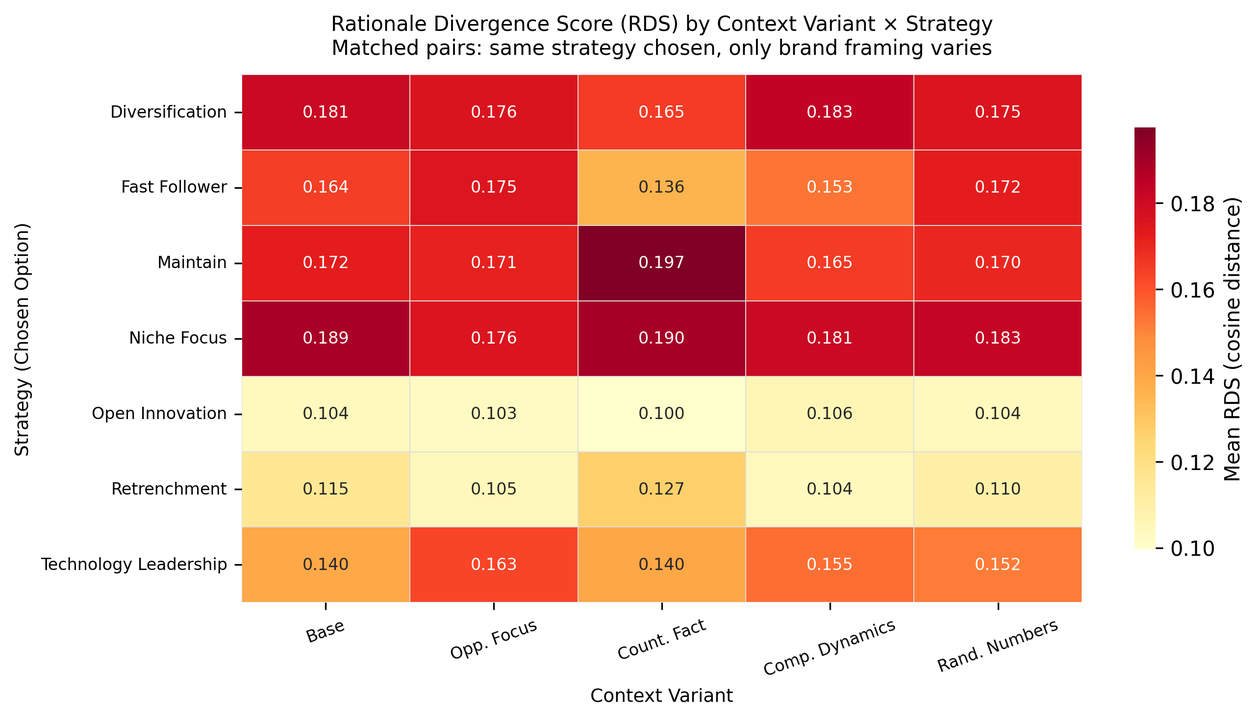
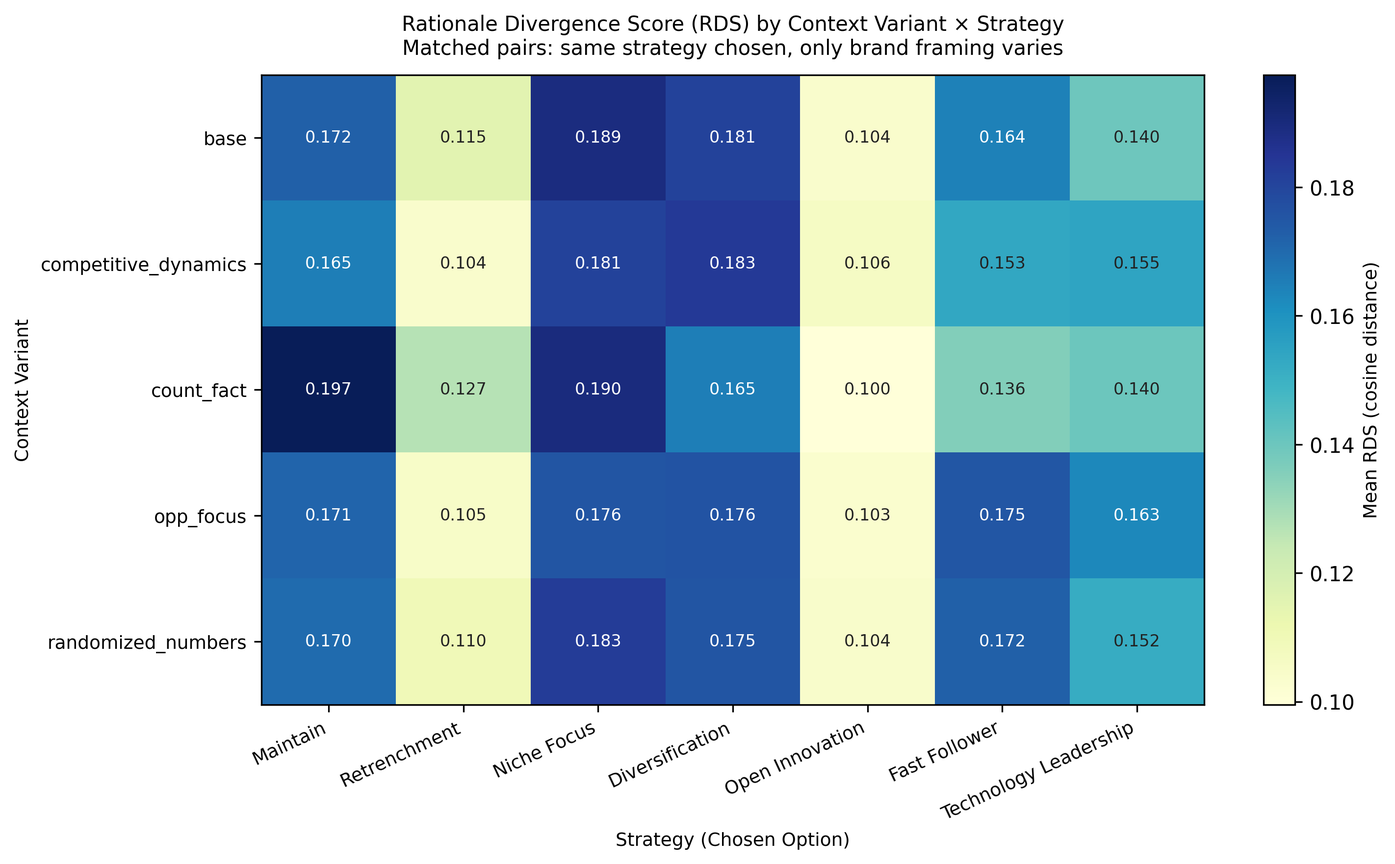
Add RDS strategy box plot from heatmap CSV and update Fig. 6.
Plot strategy-level RDS directly from saved cell means with context-variant colors, and swap the paper draft heatmap figure for the box plot.

diff --git a/result_analysis/rationale_rds_analysis.py b/result_analysis/rationale_rds_analysis.py
@@ -21,6 +21,7 @@ Outputs
   final_results/summary/rationale_rds_heatmap.csv
   final_results/summary/rationale_rds_calibration_summary.csv
   final_results/plots/eval_rationale_rds_heatmap.png
+  final_results/plots/eval_rationale_rds_strategy_boxplot.png
   final_results/plots/eval_rationale_rds_calibration_histogram.png
 
 Usage
@@ -41,9 +42,9 @@ import matplotlib.patches as mpatches
 import seaborn as sns
 
 try:
-    from result_analysis.rationale_analysis import load_rationale_data, mask_brand_terms
+    from result_analysis.rationale_analysis import load_rationale_data, mask_brand_terms, valid_strategies
 except ImportError:
-    from rationale_analysis import load_rationale_data, mask_brand_terms
+    from rationale_analysis import load_rationale_data, mask_brand_terms, valid_strategies
 
 # ── constants ──────────────────────────────────────────────────────────────────
 PAIR_GROUP_COLS = [
@@ -62,16 +63,27 @@ CEILING_CELL_COLS = [
 ]
 
 CONTEXT_ORDER = [
-    "base", "opp_focus", "count_fact",
-    "competitive_dynamics", "randomized_numbers",
+    "base",
+    "competitive_dynamics",
+    "count_fact",
+    "opp_focus",
+    "randomized_numbers",
 ]
 CONTEXT_LABELS = {
     "base":                  "Base",
-    "opp_focus":             "Opp. Focus",
-    "count_fact":            "Count. Fact",
     "competitive_dynamics":  "Comp. Dynamics",
+    "count_fact":            "Count. Fact",
+    "opp_focus":             "Opp. Focus",
     "randomized_numbers":    "Rand. Numbers",
 }
+CONTEXT_COLORS = {
+    "base":                  "#377eb8",
+    "competitive_dynamics":  "#ff7f00",
+    "count_fact":            "#4daf4a",
+    "opp_focus":             "#e41a1c",
+    "randomized_numbers":    "#984ea3",
+}
+STRATEGY_ORDER = list(valid_strategies)
 
 SUMMARY_DIR = "./final_results/summary"
 PLOTS_DIR   = "./final_results/plots"
@@ -324,6 +336,187 @@ def _plot_calibration_histogram(
     plt.close(fig)
 
 
+def _build_rds_heatmap_df(rds_df: pd.DataFrame) -> pd.DataFrame:
+    """Rows = context_variant, columns = strategy (same layout as other paper heatmaps)."""
+    mat = (
+        rds_df.groupby(["context_variant", "strategy"])["rds"]
+        .mean()
+        .reset_index()
+        .pivot(index="context_variant", columns="strategy", values="rds")
+    )
+    row_order = [v for v in CONTEXT_ORDER if v in mat.index]
+    col_order = [s for s in STRATEGY_ORDER if s in mat.columns]
+    return mat.reindex(index=row_order, columns=col_order)
+
+
+def _plot_rds_heatmap(heatmap_df: pd.DataFrame, out_path: str) -> None:
+    fig, ax = plt.subplots(figsize=(10, 6))
+    vals = heatmap_df.to_numpy(dtype=float)
+    vmin = float(np.nanmin(vals)) if np.isfinite(vals).any() else 0.0
+    vmax = float(np.nanmax(vals)) if np.isfinite(vals).any() else 1.0
+    # YlGnBu: same family as Strategy Ratio heatmaps; easier on the eyes than YlOrRd.
+    im = ax.imshow(vals, aspect="auto", cmap="YlGnBu", vmin=vmin, vmax=vmax)
+    ax.set_xticks(np.arange(heatmap_df.shape[1]))
+    ax.set_xticklabels(heatmap_df.columns.tolist(), rotation=25, ha="right", fontsize=9)
+    ax.set_yticks(np.arange(heatmap_df.shape[0]))
+    ax.set_yticklabels(heatmap_df.index.tolist(), fontsize=9)
+    ax.set_xlabel("Strategy (Chosen Option)", fontsize=9)
+    ax.set_ylabel("Context Variant", fontsize=9)
+    ax.set_title(
+        "Rationale Divergence Score (RDS) by Context Variant × Strategy\n"
+        "Matched pairs: same strategy chosen, only brand framing varies",
+        fontsize=10, pad=10,
+    )
+    span = max(vmax - vmin, 1e-9)
+    for i in range(heatmap_df.shape[0]):
+        for j in range(heatmap_df.shape[1]):
+            v = vals[i, j]
+            if np.isfinite(v):
+                norm = (v - vmin) / span
+                txt_color = "white" if norm > 0.62 else "#222222"
+                ax.text(j, i, f"{v:.3f}", va="center", ha="center", fontsize=8, color=txt_color)
+    cbar = fig.colorbar(im, ax=ax)
+    cbar.set_label("Mean RDS (cosine distance)", fontsize=9)
+    plt.tight_layout()
+    plt.savefig(out_path, dpi=300, bbox_inches="tight")
+    plt.close(fig)
+
+
+def _heatmap_df_to_long(heatmap_df: pd.DataFrame) -> pd.DataFrame:
+    """Melt context×strategy matrix to long format (one row per cell mean)."""
+    long = heatmap_df.stack(future_stack=True).reset_index()
+    long.columns = ["context_variant", "strategy", "rds"]
+    return long
+
+
+def _load_rds_heatmap_df(csv_path: str | None = None) -> pd.DataFrame:
+    """Load context×strategy RDS matrix from rationale_rds_heatmap.csv."""
+    path = csv_path or os.path.join(SUMMARY_DIR, "rationale_rds_heatmap.csv")
+    if not os.path.exists(path):
+        raise FileNotFoundError(f"RDS heatmap CSV not found: {path}")
+    raw = pd.read_csv(path)
+    heatmap_df = _legacy_heatmap_csv_to_matrix(raw)
+    if heatmap_df.empty:
+        raise ValueError(f"Could not load RDS heatmap data from {path}")
+    return heatmap_df
+
+
+def _plot_rds_strategy_boxplot(heatmap_df: pd.DataFrame, out_path: str) -> None:
+    """
+    Box plot of RDS by strategy using heatmap cell means only.
+
+    Each strategy has five observations (one mean RDS per context variant),
+    taken directly from rationale_rds_heatmap.csv — no re-embedding required.
+    """
+    cell_long = _heatmap_df_to_long(heatmap_df)
+    order = [s for s in STRATEGY_ORDER if s in cell_long["strategy"].unique()]
+    ctx_order = [v for v in CONTEXT_ORDER if v in cell_long["context_variant"].unique()]
+    palette = {v: CONTEXT_COLORS[v] for v in ctx_order}
+
+    fig, ax = plt.subplots(figsize=(11, 5.5))
+    sns.boxplot(
+        data=cell_long,
+        x="strategy",
+        y="rds",
+        order=order,
+        ax=ax,
+        color="#dde7f0",
+        linewidth=1.2,
+        width=0.55,
+        showfliers=False,
+        boxprops={"alpha": 0.85},
+        zorder=1,
+    )
+    sns.stripplot(
+        data=cell_long,
+        x="strategy",
+        y="rds",
+        hue="context_variant",
+        hue_order=ctx_order,
+        order=order,
+        palette=palette,
+        ax=ax,
+        size=7,
+        jitter=0.08,
+        alpha=0.95,
+        dodge=False,
+        linewidth=0.6,
+        edgecolor="white",
+        zorder=3,
+    )
+    handles, labels = ax.get_legend_handles_labels()
+    ax.legend(
+        handles,
+        labels,
+        title="Context Variant",
+        fontsize=8,
+        title_fontsize=8,
+        loc="upper right",
+        framealpha=0.95,
+    )
+    ax.set_xlabel("Strategy (Chosen Option)", fontsize=9)
+    ax.set_ylabel("Mean RDS (cosine distance)", fontsize=9)
+    ax.set_title(
+        "Rationale Divergence Score (RDS) by Strategy\n"
+        "Five context-variant cell means per strategy; matched pairs, brand framing only",
+        fontsize=10,
+        pad=10,
+    )
+    ax.tick_params(axis="x", labelrotation=25)
+    plt.setp(ax.get_xticklabels(), ha="right")
+    ax.grid(True, axis="y", linestyle="--", alpha=0.25)
+    plt.tight_layout()
+    plt.savefig(out_path, dpi=300, bbox_inches="tight")
+    plt.close(fig)
+
+
+def _legacy_heatmap_csv_to_matrix(df: pd.DataFrame) -> pd.DataFrame:
+    """Load heatmap matrix from CSV (supports legacy strategy×context or current context×strategy)."""
+    label_to_ctx = {v: k for k, v in CONTEXT_LABELS.items()}
+    if "context_variant" in df.columns:
+        mat = df.set_index("context_variant")
+    elif "strategy" in df.columns:
+        mat = df.set_index("strategy").rename(columns=label_to_ctx).T
+    elif set(df.index).issubset(set(CONTEXT_ORDER)):
+        mat = df.copy()
+    else:
+        mat = df.rename(columns=label_to_ctx).T
+    row_order = [v for v in CONTEXT_ORDER if v in mat.index]
+    col_order = [s for s in STRATEGY_ORDER if s in mat.columns]
+    return mat.reindex(index=row_order, columns=col_order)
+
+
+def replot_rds_boxplot() -> None:
+    """Regenerate strategy box plot from rationale_rds_heatmap.csv only (no re-embedding)."""
+    os.makedirs(PLOTS_DIR, exist_ok=True)
+    heatmap_df = _load_rds_heatmap_df()
+    box_path = os.path.join(PLOTS_DIR, "eval_rationale_rds_strategy_boxplot.png")
+    _plot_rds_strategy_boxplot(heatmap_df, box_path)
+    print(f"Saved box plot → {box_path}")
+
+
+def replot_rds_figures() -> None:
+    """Regenerate RDS heatmap and strategy box plot from saved CSV (no re-embedding)."""
+    os.makedirs(PLOTS_DIR, exist_ok=True)
+    heatmap_df = _load_rds_heatmap_df()
+
+    long_path = os.path.join(SUMMARY_DIR, "rationale_rds_strategy_context_long.csv")
+    _heatmap_df_to_long(heatmap_df).to_csv(long_path, index=False)
+
+    heatmap_path = os.path.join(PLOTS_DIR, "eval_rationale_rds_heatmap.png")
+    _plot_rds_heatmap(heatmap_df, heatmap_path)
+    print(f"Saved heatmap → {heatmap_path}")
+
+    box_path = os.path.join(PLOTS_DIR, "eval_rationale_rds_strategy_boxplot.png")
+    _plot_rds_strategy_boxplot(heatmap_df, box_path)
+    print(f"Saved box plot → {box_path}")
+
+
+def replot_rds_heatmap() -> None:
+    """Backward-compatible alias."""
+    replot_rds_figures()
+
+
 # ── main ───────────────────────────────────────────────────────────────────────
 def run(input_dir: str = "infer_results") -> None:
     from sentence_transformers import SentenceTransformer
@@ -416,36 +609,19 @@ def run(input_dir: str = "infer_results") -> None:
                  .reset_index())
     rds_strat.to_csv(os.path.join(SUMMARY_DIR, "rationale_rds_by_strategy.csv"), index=False)
 
-    heatmap_df = (rds_df.groupby(["context_variant", "strategy"])["rds"]
-                  .mean()
-                  .reset_index()
-                  .pivot(index="strategy", columns="context_variant", values="rds"))
-    col_order = [c for c in CONTEXT_ORDER if c in heatmap_df.columns]
-    heatmap_df = heatmap_df[col_order]
-    heatmap_df.columns = [CONTEXT_LABELS.get(c, c) for c in heatmap_df.columns]
+    heatmap_df = _build_rds_heatmap_df(rds_df)
     heatmap_df.to_csv(os.path.join(SUMMARY_DIR, "rationale_rds_heatmap.csv"))
+    _heatmap_df_to_long(heatmap_df).to_csv(
+        os.path.join(SUMMARY_DIR, "rationale_rds_strategy_context_long.csv"), index=False,
+    )
 
-    fig, ax = plt.subplots(figsize=(9, 5))
-    sns.heatmap(
-        heatmap_df, ax=ax, annot=True, fmt=".3f", cmap="YlOrRd",
-        linewidths=0.4, linecolor="#dddddd",
-        cbar_kws={"label": "Mean RDS (cosine distance)", "shrink": 0.8},
-        annot_kws={"size": 8},
-    )
-    ax.set_title(
-        "Rationale Divergence Score (RDS) by Context Variant × Strategy\n"
-        "Matched pairs: same strategy chosen, only brand framing varies",
-        fontsize=10, pad=10,
-    )
-    ax.set_xlabel("Context Variant", fontsize=9)
-    ax.set_ylabel("Strategy (Chosen Option)", fontsize=9)
-    ax.tick_params(axis="x", labelsize=8, rotation=20)
-    ax.tick_params(axis="y", labelsize=8, rotation=0)
-    plt.tight_layout()
     heatmap_path = os.path.join(PLOTS_DIR, "eval_rationale_rds_heatmap.png")
-    plt.savefig(heatmap_path, dpi=300, bbox_inches="tight")
-    plt.close(fig)
+    _plot_rds_heatmap(heatmap_df, heatmap_path)
     print(f"Saved heatmap → {heatmap_path}")
+
+    box_path = os.path.join(PLOTS_DIR, "eval_rationale_rds_strategy_boxplot.png")
+    _plot_rds_strategy_boxplot(heatmap_df, box_path)
+    print(f"Saved box plot → {box_path}")
 
 
 def replot_calibration() -> None:
@@ -480,10 +656,19 @@ if __name__ == "__main__":
     parser = argparse.ArgumentParser(description="Rationale Divergence Score analysis")
     parser.add_argument("--input_dir", default="infer_results")
     parser.add_argument("--plot-only", action="store_true",
-                        help="Regenerate histograms from saved .npz (no re-embedding)")
+                        help="Regenerate plots from saved outputs (no re-embedding)")
+    parser.add_argument("--heatmap-only", action="store_true",
+                        help="Regenerate RDS heatmap and box plot from saved CSV")
+    parser.add_argument("--boxplot-only", action="store_true",
+                        help="Regenerate RDS strategy box plot from rationale_rds_heatmap.csv only")
     args = parser.parse_args()
 
-    if args.plot_only:
+    if args.boxplot_only:
+        replot_rds_boxplot()
+    elif args.heatmap_only:
+        replot_rds_figures()
+    elif args.plot_only:
         replot_calibration()
+        replot_rds_figures()
     else:
         run(args.input_dir)

diff --git a/ESWA_paper_harvard_0627.md b/ESWA_paper_harvard_0627.md
@@ -1,9 +1,9 @@
 **Auditing LLMs as Algorithmic Agents for R&D Strategy: A Scenario-Based Framework for Context and Framing Sensitivity**
 
 **Abstract**  
-Large Language Models (LLMs) are increasingly deployed as algorithmic agents in R&D and innovation management, yet their behavior as strategic decision-makers remains poorly understood. This study introduces a scenario-based benchmark for auditing how LLMs' strategic judgments respond to controlled variations in context and framing. Using historically grounded R&D scenarios, we systematically manipulate semantic context (opportunity, constraint, competition signals), brand framing (anonymous vs. a high-profile innovator), and numerical inputs across multiple LLMs and decoding temperatures.
+Large Language Models (LLMs) are increasingly deployed as algorithmic agents in R&D and innovation management, yet their behavior as strategic decision-makers remains poorly understood. This study introduces a scenario-based benchmark for auditing how LLMs' strategic judgments respond to controlled variations in context and framing. Using historically grounded R&D scenarios, we systematically manipulate semantic context (opportunity, constraint, competition signals, 여기에 숫자 변동 추가), brand framing (anonymous vs. a high-profile innovator), and numerical inputs[숫자 이야기는 제거, 레벨 안맞음] across multiple LLMs and decoding temperatures[온도 중요한지 판단 필요].
 
-Three main findings emerge. First, LLMs exhibit strong context sensitivity: opportunity framing shifts choices toward Technology Leadership, while unfavorable constraints trigger defensive positioning. Second, brand framing asymmetrically amplifies this pattern—identifying the firm as a high-profile innovator boosts proactive strategies while suppressing collaborative and niche approaches. Third, these framing effects persist in model-generated rationales and vary systematically across models and temperature settings, revealing that LLMs operate as conditional strategic agents rather than stable default reasoners. We conclude by outlining an audit protocol for evaluating robustness before deploying LLMs in strategic R&D contexts, contributing to AI governance and human-in-the-loop oversight.
+Three main findings emerge. First, LLMs exhibit strong context sensitivity: opportunity framing shifts choices toward Technology Leadership, while unfavorable constraints trigger defensive positioning. Second, brand framing asymmetrically amplifies this pattern—identifying the firm as a high-profile innovator boosts proactive strategies while suppressing collaborative and niche approaches.[context*framing 상호관계 추가] Third, these framing effects persist in model-generated rationales and vary systematically across models and temperature settings, revealing that LLMs operate as conditional strategic agents rather than stable default reasoners. We conclude by outlining an audit protocol for evaluating robustness before deploying LLMs in strategic R&D contexts, contributing to AI governance and human-in-the-loop oversight.
 
 
 **1\. Introduction**  
@@ -11,7 +11,7 @@ Large Language Models (LLMs) are increasingly used as algorithmic agents in R&D 
 
 When an LLM produces a strategic recommendation, it does not simply retrieve facts. It actively interprets the problem, weighs competing considerations, and generates a course of action—behaviors that qualify it as an algorithmic agent. However, unlike human agents whose reasoning can be probed and audited, LLMs offer no built-in transparency about what drives their judgments. Do they rely on stable strategic logic, or are their recommendations systematically shaped by how the problem is framed, which brand name appears in the prompt, or even the randomness setting of the decoder?
 
-Current evaluative frameworks offer little answers to these questions. They primarily focus on accuracy, coherence, or task-level performance in isolated contexts (Chang et al., 2024). While informative, such metrics provide no insight into the stability of strategic judgments—how decisions shift when the same underlying dilemma is presented with different contextual emphasis, brand identity, or numerical inputs. These are precisely the factors that matter most in R&D strategy, where outcomes are highly sensitive to market signals, competitive framing, and narrative persuasion.
+Current evaluative frameworks offer little answers to these questions. They primarily focus on accuracy, coherence, or task-level performance in isolated contexts (Chang et al., 2024). While informative, such metrics provide no insight into the stability of strategic judgments—how decisions shift when the same underlying dilemma is presented with different contextual emphasis, brand identity, or numerical inputs(없애는게 적절-레벨 안맞음). These are precisely the factors that matter most in R&D strategy, where outcomes are highly sensitive to market signals, competitive framing, and narrative persuasion.
 
 To address this gap, this study shifts the focus from "correctness" to "decision sensitivity". We introduce a scenario-based audit framework that systematically varies contextual and framing conditions to probe how LLMs adjust their strategic stances. Our central question is: How stable are LLMs' strategic judgments across different conditions and model configurations? By answering this question, we aim to characterize LLMs as conditional strategic agents and to provide practical guidance for auditing their behavior before deployment in high-stakes R&D environments.
 
@@ -41,15 +41,15 @@ To rigorously characterize the strategic behavior of LLMs, it is necessary to ma
 Specifically, the distinction between 'Technology Leadership' and 'Fast Follower' is grounded in the pioneering work on timing of entry and R&D intensity (Schilling, 2019). The concepts of 'Niche Focus' and 'Diversification' align with Porter’s generic strategies and the resource-based view of the firm (Porter, 1980; Barney, 1991). Furthermore, 'Open Innovation' reflects the modern shift toward collaborative R&D ecosystems (Chesbrough, 2003), while 'Retrenchment' and 'Maintain' represent critical defensive maneuvers under high environmental volatility (Miles et al., 1978). By constraining the LLM’s choice set to these validated archetypes, we transition from observing simple linguistic patterns to analyzing structural strategic reasoning. This methodological grounding ensures that the observed shifts in choice distributions are interpretable within the context of established management science.
 
 **2.7 Research gap**  
-Synthesizing these strands, prior work shows that LLMs can (i) drive automated planning in operational systems, (ii) support reliability through hallucination detection, (iii) operate within knowledge-grounded infrastructures, and (iv) be evaluated along general reasoning dimensions. Yet, taken together, this literature provides little systematic evidence on how LLMs behave as categorical strategic decision-makers when subjected to controlled perturbations of the same business dilemma. We therefore formulate four research questions:
+Synthesizing these strands, prior work shows that LLMs can (i) drive automated planning in operational systems, (ii) support reliability through hallucination detection, (iii) operate within knowledge-grounded infrastructures, and (iv) be evaluated along general reasoning dimensions. Yet, taken together, this literature provides little systematic evidence on how LLMs behave as categorical strategic decision-makers when subjected to controlled perturbations of the same business dilemma. We therefore formulate four research questions: [리서치 갭에서 리서치 질문과 연결이 강화되어야 함. 지금 썡뚱맞음-옆에 내용은 참조만: "numerical change"에 대한 언급 (RQ1 대비), "magnitude vs direction"의 구분에 대한 암시 (RQ3 대비), "rationale" 분석의 필요성에 대한 언급 (RQ4 대비)]
 
-**RQ1 (Context effect on choice).** How does semantic context—operationalized through context variants that emphasize opportunity, constraint, competition, or numerical perturbation—affect LLMs' categorical strategy choices when the underlying strategic dilemma is held constant?
+**RQ1 (Context effect on choice).** How do variations in semantic context—specifically, signals of opportunity, constraint, competition, and numerical change—affect LLMs' strategy choices when the underlying decision problem is held constant?
 
 **RQ2 (Framing effect on choice).** How does brand framing (Generic vs. Specific firm identification) reshape strategy selection when model, temperature, scenario, context variant, and context load are otherwise identical?
 
-**RQ3 (Context–framing interaction on choice).** Is the effect of brand framing on strategy selection moderated by semantic context—that is, does the magnitude or profile of framing-induced reallocation vary systematically across context variants?
+**RQ3 (Context–framing interaction on choice).** Is the impact of brand framing on strategy choice moderated by semantic context? Specifically, do both the magnitude and the direction of framing-induced strategy reallocation vary systematically across context variants?
 
-**RQ4 (Framing effect on rationale).** When the chosen strategy is held constant, does brand framing alter the semantic content of model-generated rationales, and how large is this narrative divergence relative to repeat-noise and cross-strategy baselines?
+**RQ4 (Framing effect on rationale).** How does brand framing alter the semantic content of model-generated rationales when the chosen strategy is held constant?
 
 To address these questions, this study reconceptualizes LLMs as conditional strategic agents whose decision-making logic is intrinsically linked to environmental framing. Rather than treating model outputs as static responses, we seek to characterize the dynamic boundaries of LLM-based reasoning by evaluating the stability and sensitivity of strategic choices and rationales under controlled perturbations. By bridging the gap between cognitive psychology and strategic management, this research provides a foundational framework for understanding how architectural biases in LLMs can be identified and managed in high-stakes corporate environments.
 
@@ -217,21 +217,21 @@ Across 141,209 matched pairs, the overall mean RDS is 0.157 (median = 0.146, SD 
 
 The repeat-noise lower bound (n = 5,790; median = 0.101) additionally fixes chosen strategy and firm framing and contrasts two independent repeats, isolating decoding variability absent intentional manipulation. The strategy-ceiling upper bound (n = 1,702; median = 0.364) fixes firm framing but compares rationales from two different chosen strategies, approximating embedding distance when the strategic commitment itself changes. RDS holds repeat and strategy fixed and varies Generic vs. Specific framing alone.
 
-Fig. 5 overlays the three distributions. RDS (median = 0.146) lies clearly above repeat noise and well below the cross-strategy ceiling, indicating that brand framing induces semantically measurable narrative shift beyond stochastic repetition, yet does not reframe justifications to the same extent as changing the chosen strategy itself. Fig. 6 presents mean RDS disaggregated by strategy and context variant.
+Fig. 5 overlays the three distributions. RDS (median = 0.146) lies clearly above repeat noise and well below the cross-strategy ceiling, indicating that brand framing induces semantically measurable narrative shift beyond stochastic repetition, yet does not reframe justifications to the same extent as changing the chosen strategy itself. Fig. 6 summarizes mean RDS by strategy, with the five context-variant cell means overlaid.
 
 ![RDS_calibration_histogram](final_results/plots/eval_rationale_rds_calibration_histogram.png)
 
 Fig. 5. Rationale embedding distance: framing (RDS) vs. repeat noise vs. cross-strategy ceiling (matched preprocessing; noise and ceiling baselines: one random pair per eligible cell).
 
-![RDS_heatmap](final_results/plots/eval_rationale_rds_heatmap.png)
+![RDS_strategy_boxplot](final_results/plots/eval_rationale_rds_strategy_boxplot.png)
 
-Fig. 6. Mean Rationale Divergence Score (RDS) by context variant and strategy (matched pairs; same strategy chosen, only brand framing varies).
+Fig. 6. Mean Rationale Divergence Score (RDS) by strategy. Boxes span the five context-variant cell means; colored points indicate base, competitive_dynamics, count_fact, opp_focus, and randomized_numbers (matched pairs; same strategy chosen, only brand framing varies).
 
 Two structural patterns emerge from Fig. 6. First, RDS differs substantially across strategies. Niche Focus (mean RDS = 0.185) and Diversification (0.177) show the highest narrative divergence, while Open Innovation (0.103) and Retrenchment (0.113) show the lowest—a nearly two-fold spread across the strategy axis. This indicates that the degree of framing-induced narrative shift is conditioned on strategic content: strategies that require explicit competitive positioning (Niche Focus, Diversification) are more susceptible to framing-induced narrative drift than strategies framed in terms of restraint or collaboration (Retrenchment, Open Innovation).
 
-Second, and in contrast to the strategy-selection findings in §5.4, context variant exerts negligible influence on RDS. Within any given strategy, RDS values across the five context variants span at most 0.02 (e.g., Maintain ranges from 0.165 to 0.198). This asymmetry is theoretically significant: whereas contextual framing moderates which strategy LLMs choose (§5.4), it does not moderate how differently they justify the same choice. Rationale bias is structurally tied to strategic content and persists regardless of the surrounding narrative context. Consequently, enriching the prompt context—a common mitigation strategy—cannot be expected to reduce framing-induced narrative divergence.
+Second,[내용틀림 수정필수] and in contrast to the strategy-selection findings in §5.4, context variant exerts negligible influence on RDS. Within any given strategy, the five context-variant points cluster tightly (span at most 0.039; e.g., Fast Follower ranges from 0.136 to 0.175). This asymmetry is theoretically significant: whereas contextual framing moderates which strategy LLMs choose (§5.4), it does not moderate how differently they justify the same choice. Rationale bias is structurally tied to strategic content and persists regardless of the surrounding narrative context. Consequently, enriching the prompt context—a common mitigation strategy—cannot be expected to reduce framing-induced narrative divergence.
 
-The Maintain × count\_fact cell (mean RDS = 0.198, the highest in Fig. 6) illustrates the phenomenon concretely. The following pair, drawn from this cell and representing its most divergent instance (individual RDS = 0.689), captures the pattern at its sharpest: when both Generic and Specific prompts lead to the same "maintain operations" choice, Generic rationales frame the decision around operational risk and cash-flow stabilization ("delaying the full-scale launch allows the company to stabilize operations and cash position"), while Specific rationales invoke brand-stewardship imperatives ("ensuring high-quality product delivery is crucial for maintaining brand trust and reputation"). The strategic conclusion is identical; the explanatory frame is not.
+The Maintain × count\_fact point (mean RDS = 0.197, the highest in Fig. 6) illustrates the phenomenon concretely. The following pair, drawn from this cell and representing its most divergent instance (individual RDS = 0.689), captures the pattern at its sharpest: when both Generic and Specific prompts lead to the same "Maintain" choice, Generic rationales frame the decision around operational risk and cash-flow stabilization ("delaying the full-scale launch allows the company to stabilize operations and cash position"), while Specific rationales invoke brand-stewardship imperatives ("ensuring high-quality product delivery is crucial for maintaining brand trust and reputation"). The strategic conclusion is identical; the explanatory frame is not.
 
 **5.6 Model-Level Behavioral Profiling and Temperature Robustness**  
 This section extends the scenario-level findings by profiling model-specific behavioral signatures under the same strategic benchmark. Rather than relying on pooled trends, we compare models as distinct strategic reasoners and evaluate whether their behavioral profiles remain stable across decoding temperatures.
